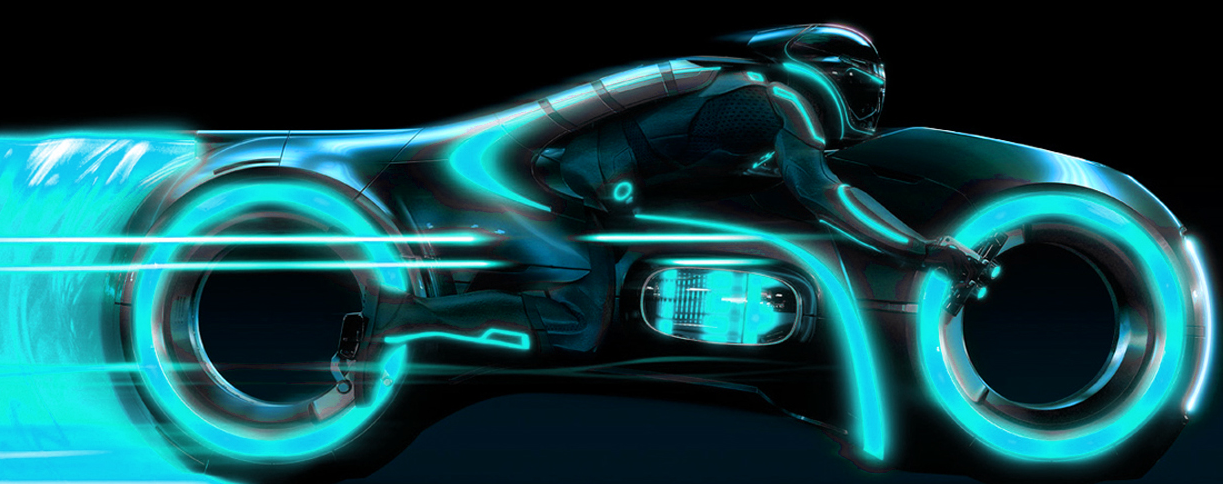
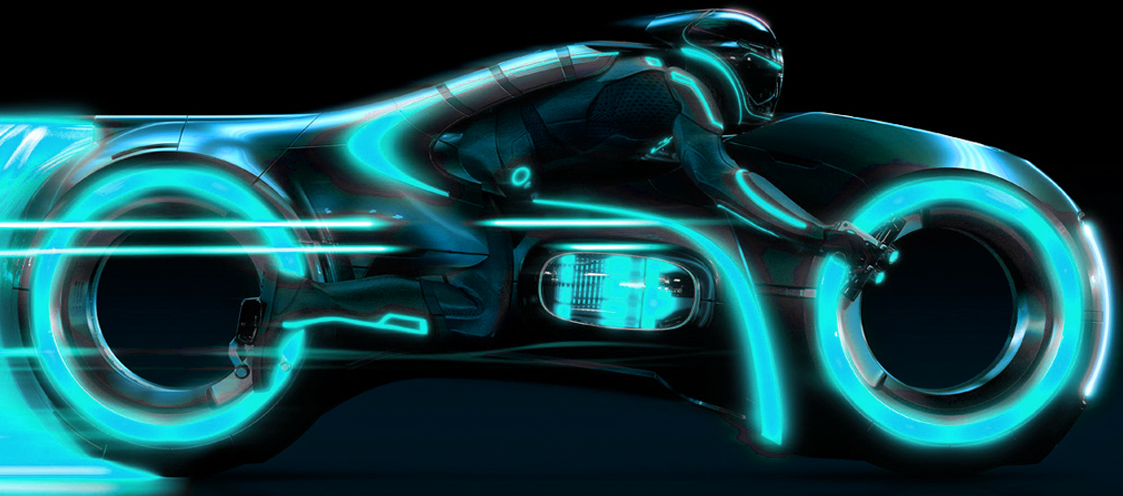
Adds game page

diff --git a/game.html b/game.html
@@ -2,12 +2,20 @@
 <html>
 <head>
 	<title>Tron Racer Game</title>
+	<link rel="stylesheet" href="css/game.css">
 </head>
 <body>
 	<h1>Testing</h1>
 
-	<p>Lorem ipsum dolor sit amet, consectetur adipisicing elit. Explicabo, temporibus? Nesciunt libero harum laudantium nisi odit ab non molestiae, quidem. Ullam amet veritatis dolorum tempora, odio repudiandae consequuntur! Aut, quam!</p>
+<div id="gameBoard">
+	<img id="blueBike" class="bike" src="images/blue-bike.png" alt="blue-bike img">
+	<img id="orangeBike" class="bike" src="images/orange-bike.png" alt="orange-bike img">
+</div>
 
-	<p>Lorem ipsum dolor sit amet, consectetur adipisicing elit. Distinctio obcaecati voluptates nostrum aliquid amet adipisci aspernatur exercitationem, laudantium ullam necessitatibus eos veniam, consectetur tenetur debitis, fugiat at nobis beatae quidem.</p>
+
+<script src="https://code.jquery.com/jquery-3.2.1.min.js" integrity="sha256-hwg4gsxgFZhOsEEamdOYGBf13FyQuiTwlAQgxVSNgt4=" crossorigin="anonymous"> 
+</script>
+<script type="text/javascript" src="js/app.js"></script>
+
 </body>
 </html>

diff --git a/css/game.css b/css/game.css
@@ -1,0 +1,34 @@
+body {
+	background-color: black;
+}
+
+#gameBoard  {
+		width: 100%;
+		height: 38em;
+    background-image: url("../images/giphy (2).gif");
+    background-size: cover;
+ }
+
+ .bike {
+ 	height: 4em;
+ 	width: 10%;
+ 	display: block;
+ 	border-radius: 20px;
+	
+ }
+
+#blueBike{
+ 	border: 5px solid #01F5F5;
+ 	border-radius: 20px;
+ 	position: relative;
+ 	top: 30%;
+ 	background-color: #01F5F5;
+ }
+
+ #orangeBike {
+	border: 5px solid #F18323;
+	position: relative;
+	top: 50%;
+	background-color: #F18323;
+ }
+

diff --git a/js/app.js b/js/app.js
@@ -1,0 +1,13 @@
+//Define the two images as variables
+var blueBike = $('#bluebike');
+var orangeBike = $('#orangeBike');
+
+//Select the images using JQuery
+
+//Set event listeners on the images for keystrokes
+
+//When keystroke is pushed, padding-left will be placed on the image to move it accross the screen
+	//Use a percentage increase to help with scaling
+	//Increase the padding by 5% or 10%
+
+//When the image reaches a certain point, the game will display an alert that the player has won and the game will resest 

diff --git a/tron/style.css b/tron/style.css
@@ -22,6 +22,7 @@ h1 {
 	color: #01F5F5;
 	font-size: 400px;
 	margin-top: 0px;
+	text-decoration: underline;
 }
 
 p {
@@ -37,7 +38,11 @@ p {
 	border-radius: 10px;
 	font-size: 55px;
 	border: 5px solid #01F5F5;
+}
 
+#start:hover {
+	color: white;
+	border: 5px solid white;
 }
 
 
